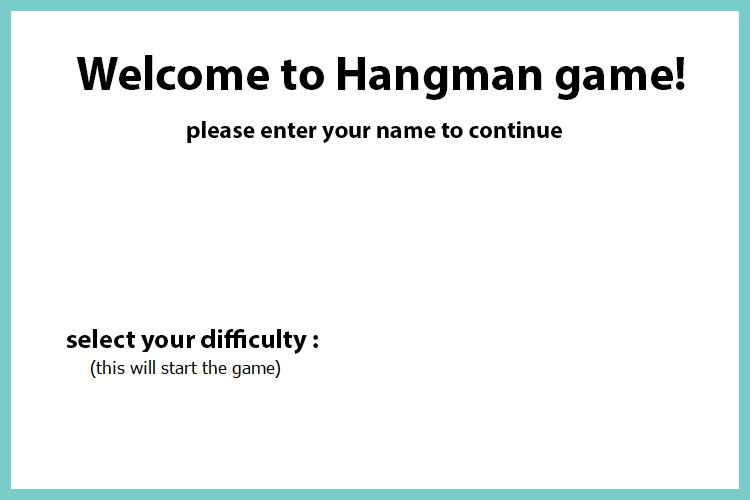
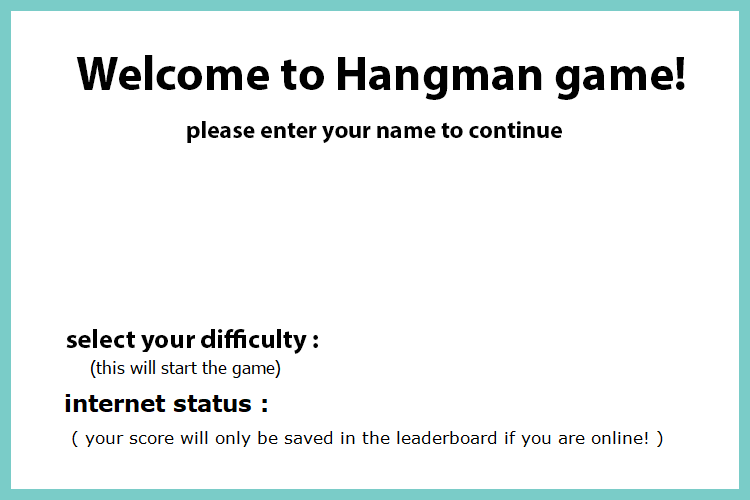
internet status button added

Changed region(s): [[0.092, 0.87, 0.8893, 0.9], [0.0613, 0.78, 0.3373, 0.84]]

diff --git a/core.py b/core.py
@@ -1,6 +1,7 @@
 import pygame
 import vocab
 import mysql.connector
+import socket
 pygame.init()
 
 win = pygame.display.set_mode((750, 500))
@@ -10,12 +11,26 @@ hangman_images = {"lose": pygame.image.load("assets/lose.png"), "won": pygame.im
                   "idle": pygame.image.load("assets/idle.png")}
 bg = pygame.image.load("assets/bg.png")
 
-mydb = mysql.connector.connect(
-    host="remotemysql.com",
-    user="NON1wuL7Sf",
-    passwd="kEFFpgWwFZ",
-    database="NON1wuL7Sf")
-mycursor = mydb.cursor()
+
+def is_internet_connected():
+    try:
+        # connect to the host -- tells us if the host is actually reachable
+        socket.create_connection(("www.google.com", 80))
+        print("Connected")
+        return True
+    except OSError:
+        print("not connected")
+        pass
+    return False
+
+
+if is_internet_connected():
+    mydb = mysql.connector.connect(
+        host="remotemysql.com",
+        user="NON1wuL7Sf",
+        passwd="kEFFpgWwFZ",
+        database="NON1wuL7Sf")
+    mycursor = mydb.cursor()
 # mycursor.execute("CREATE TABLE users(NAME varchar(255), score int);")
 # mycursor.execute("drop TABLE users;")
 
@@ -176,11 +191,14 @@ def end_game():
 
     def save_n_exit():
         global name, score
-        sql = "INSERT INTO users(NAME, score) VALUES (%s, %s)"
-        val = (name, score)
-        mycursor.execute(sql, val)
-        mydb.commit()
-        close_game()
+        if is_internet_connected():
+            sql = "INSERT INTO users(NAME, score) VALUES (%s, %s)"
+            val = (name, score)
+            mycursor.execute(sql, val)
+            mydb.commit()
+            close_game()
+        else:
+            close_game()
 
     background = pygame.image.load("assets/end_screen.png")
     win.blit(background, (0, 0))
@@ -228,6 +246,10 @@ def end_game():
 
 # noinspection PyShadowingNames
 def start_menu():
+    if is_internet_connected():
+        internet_status.update_text("ONLINE")
+    else:
+        internet_status.update_text("OFFLINE")
     global start, name, difficulty
     posx = 80
     posy = 170
@@ -251,6 +273,7 @@ def start_menu():
         hard.draw(win)
         display_name.update_text(" player name : " + str(name))
         display_name.draw(win)
+        internet_status.draw(win)
 
     while True:     # main loop
 
@@ -326,7 +349,8 @@ welcome_player = Button((255, 255, 255), 20, 300, 200, 30, "welcome, " + name)
 save_and_exit = Button((179, 220, 216), 50, 400, 200, 30, "save and exit")
 easy = Button((179, 220, 216), 350, 325, 60, 30, "Easy")
 hard = Button((179, 220, 216), 450, 325, 60, 30, "Hard")
-display_name = Button((255, 255, 255), 200, 280, 200, 30, " player name : ")
+internet_status = Button((179, 220, 216), 300, 390, 80, 30, "internet status")
+display_name = Button((255, 255, 255), 200, 280, 230, 30, " player name : ")
 
 start_menu()
 initialize_game()
